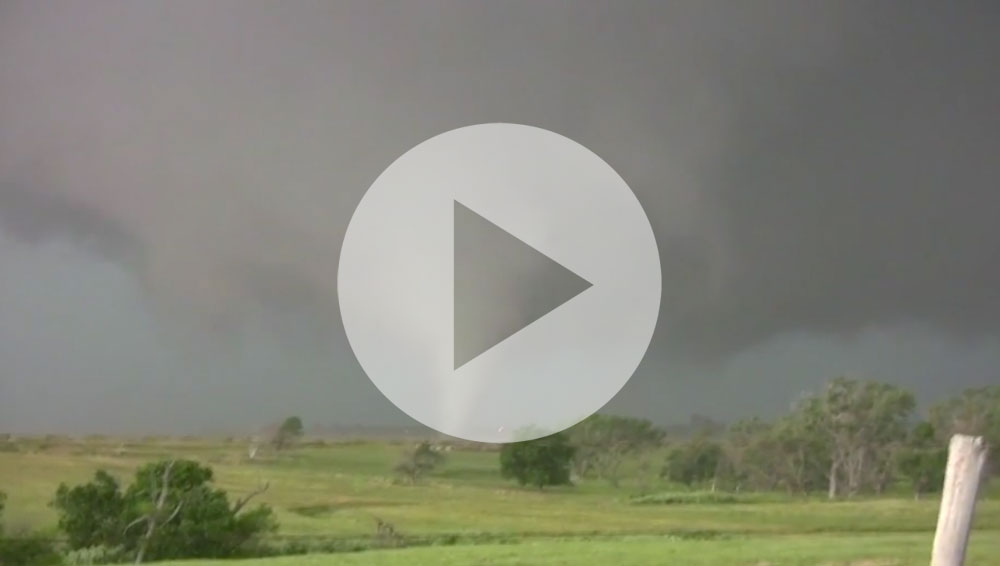
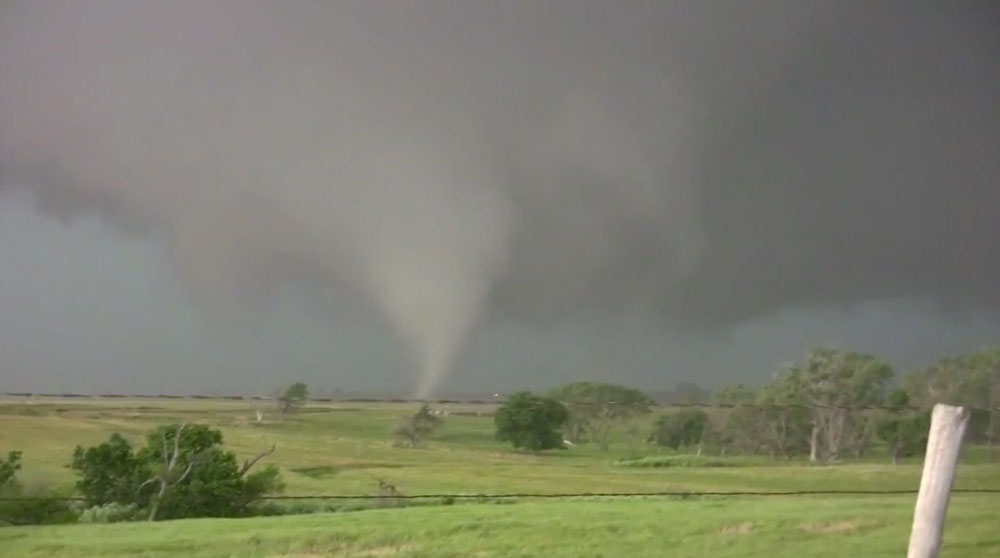
Map style refinements; video poster changes; menu tweaks.

Changed region(s): [[0.0, 0.2133, 1.0, 1.0]]

diff --git a/index.html b/index.html
@@ -177,6 +177,20 @@
 		<p>Moments later, caution kicked in. Samaras, who&rsquo;d spent decades stalking storms and anticipating their behavior, sensed trouble. Even as the Cobalt churned through the wind in an effort to outrun the storm so they could place the probes, Samaras reconsidered their speed and course, calculating whether it would be wise to hang back and let the tornado pass in front of them.</p>
 		<p>&ldquo;OK, we&rsquo;ve gotta be careful in case this thing wraps up,&rdquo; he said, fearing that the tornado could initiate a gradual left turn. &ldquo;I would slow up here, &rsquo;cause if this thing starts moving to the north, we&rsquo;re in trouble. Slow up. We&rsquo;re almost right alongside of it here. Slow up! Let the thing go off to the east a little bit, see if that thing transverses us.&rdquo;</p>
 		<p>They didn&rsquo;t appear to realize that they already had ventured into the transparent edge of the huge tornado&rsquo;s rotation. Sub-vortices ripped across fields to the south. In the moment, Young saw opportunity beckon.</p>
+	</div>
+</div>
+
+<div class="row">
+	<div class="large-8 push-2 columns">
+		<div id="map1" class="insetmapwrap">
+			<div class="insetmapheight"></div>
+			<iframe width="100%" height="100%" src="" frameborder="0" scrolling="no"></iframe>
+		</div>
+	</div>
+</div>
+
+<div class="row">
+	<div class="large-8 columns">
 		<p>&ldquo;We&rsquo;ve got debris in the air,&rdquo; said Samaras, and the loud thud of an object striking the car punctuated his words. &ldquo;That&rsquo;s the problem.&rdquo;</p>
 		<p>Just ahead, the north-south intersection of Reformatory Road offered an escape valve.</p>
 		<p>&ldquo;Very large hail,&rdquo; Samaras said. &ldquo;OK, we&rsquo;ve got, we&rsquo;ve got a turn to the north which is good. Got this inflow jet, so we&rsquo;re gonna follow it around to the north and get outta here. Now we go up north and then east.&rdquo;</p>
@@ -258,7 +272,7 @@
 <div id="fullMap" class="reveal-modal map-modal infobox">
 	<div class="mapwrap">
 		<div class="mapheight"></div>
-		<iframe width="100%" height="100%" src="./map/stormChaserMap2.html" frameborder="0"></iframe>
+		<iframe width="100%" height="100%" src="./map/stormChaserMap2.html" frameborder="0" scrolling="no"></iframe>
 	</div>
 	<a class="close-reveal-modal">&#215;</a>
 </div>

diff --git a/js/chaser.js b/js/chaser.js
@@ -5,7 +5,7 @@ function revealone() {
 	createSlidesOne();
 }
 
-var derp2 = function(){ $('div.opener').bind('inview', function(event, visible) {
+var derp1 = function(){ $('div.opener').bind('inview', function(event, visible) {
 	if (visible) {
 		$(this).stop().animate({ opacity: 1}, 1500);
 	}
@@ -17,7 +17,7 @@ var derp2 = function(){ $('div.opener').bind('inview', function(event, visible) 
 		$('#name2').stop().animate({opacity: 0}, 150);
 	}
 })};
-derp2();
+derp1();
 
 var derp2 = function(){ $('#footer-bar').bind('inview', function(event, visible) {
 	if (visible) {
@@ -25,3 +25,10 @@ var derp2 = function(){ $('#footer-bar').bind('inview', function(event, visible)
 	}
 })};
 derp2();
+
+var derp3 = function(){ $('#map1').one('inview', function(event, visible) {
+	if (visible) {
+		$(this).children('iframe').attr( "src", "./map/stormChaserMapPart1.html");
+	}
+})};
+derp3();

diff --git a/css/style.css b/css/style.css
@@ -312,6 +312,7 @@ div.small-6.sidemug img {
 div.mapwrap {
     position: relative;
     margin:0;
+    overflow:hidden;
 }
 div.mapwrap > .mapheight {
     width:100%;
@@ -322,20 +323,23 @@ div.mapwrap > iframe {
     position: absolute;
     top:0;
     left:0;
+    overflow:hidden;
 }
 .insetmapwrap {
     position: relative;
     margin:1em 0;
+    overflow:hidden;
 }
-.insetmapwrap > .vidheight {
+.insetmapwrap > .insetmapheight {
     width:100%;
     height:0;
-    padding-bottom:56.25%;
+    padding-bottom:49%;
 }
 .insetmapwrap > iframe {
     position: absolute;
     top:0;
     left:0;
+    overflow:hidden;
 }
 .vidwrap {
     position: relative;

diff --git a/chapter2.html b/chapter2.html
@@ -287,7 +287,7 @@
 <div id="fullMap" class="reveal-modal map-modal infobox">
 	<div class="mapwrap">
 		<div class="mapheight"></div>
-		<iframe width="100%" height="100%" src="./map/stormChaserMap2.html" frameborder="0"></iframe>
+		<iframe width="100%" height="100%" src="./map/stormChaserMap2.html" frameborder="0" scrolling="no"></iframe>
 	</div>
 	<a class="close-reveal-modal">&#215;</a>
 </div>

diff --git a/chapter3.html b/chapter3.html
@@ -249,7 +249,7 @@
 <div id="fullMap" class="reveal-modal map-modal infobox">
 	<div class="mapwrap">
 		<div class="mapheight"></div>
-		<iframe width="100%" height="100%" src="./map/stormChaserMap2.html" frameborder="0"></iframe>
+		<iframe width="100%" height="100%" src="./map/stormChaserMap2.html" frameborder="0" scrolling="no"></iframe>
 	</div>
 	<a class="close-reveal-modal">&#215;</a>
 </div>

diff --git a/chapter4.html b/chapter4.html
@@ -350,7 +350,7 @@
 <div id="fullMap" class="reveal-modal map-modal infobox">
 	<div class="mapwrap">
 		<div class="mapheight"></div>
-		<iframe width="100%" height="100%" src="./map/stormChaserMap2.html" frameborder="0"></iframe>
+		<iframe width="100%" height="100%" src="./map/stormChaserMap2.html" frameborder="0" scrolling="no"></iframe>
 	</div>
 	<a class="close-reveal-modal">&#215;</a>
 </div>

diff --git a/chapter5.html b/chapter5.html
@@ -277,7 +277,7 @@
 <div id="fullMap" class="reveal-modal map-modal infobox">
 	<div class="mapwrap">
 		<div class="mapheight"></div>
-		<iframe width="100%" height="100%" src="./map/stormChaserMap2.html" frameborder="0"></iframe>
+		<iframe width="100%" height="100%" src="./map/stormChaserMap2.html" frameborder="0" scrolling="no"></iframe>
 	</div>
 	<a class="close-reveal-modal">&#215;</a>
 </div>

diff --git a/chapter6.html b/chapter6.html
@@ -318,7 +318,7 @@
 <div id="fullMap" class="reveal-modal map-modal infobox">
 	<div class="mapwrap">
 		<div class="mapheight"></div>
-		<iframe width="100%" height="100%" src="./map/stormChaserMap2.html" frameborder="0"></iframe>
+		<iframe width="100%" height="100%" src="./map/stormChaserMap2.html" frameborder="0" scrolling="no"></iframe>
 	</div>
 	<a class="close-reveal-modal">&#215;</a>
 </div>

diff --git a/chapter7.html b/chapter7.html
@@ -284,7 +284,7 @@
 <div id="fullMap" class="reveal-modal map-modal infobox">
 	<div class="mapwrap">
 		<div class="mapheight"></div>
-		<iframe width="100%" height="100%" src="./map/stormChaserMap2.html" frameborder="0"></iframe>
+		<iframe width="100%" height="100%" src="./map/stormChaserMap2.html" frameborder="0" scrolling="no"></iframe>
 	</div>
 	<a class="close-reveal-modal">&#215;</a>
 </div>

diff --git a/credits.html b/credits.html
@@ -244,7 +244,7 @@
 <div id="fullMap" class="reveal-modal map-modal infobox">
 	<div class="mapwrap">
 		<div class="mapheight"></div>
-		<iframe width="100%" height="100%" src="./map/stormChaserMap2.html" frameborder="0"></iframe>
+		<iframe width="100%" height="100%" src="./map/stormChaserMap2.html" frameborder="0" scrolling="no"></iframe>
 	</div>
 	<a class="close-reveal-modal">&#215;</a>
 </div>

diff --git a/video.html b/video.html
@@ -300,7 +300,7 @@
 <div id="fullMap" class="reveal-modal map-modal infobox">
 	<div class="mapwrap">
 		<div class="mapheight"></div>
-		<iframe width="100%" height="100%" src="./map/stormChaserMap2.html" frameborder="0"></iframe>
+		<iframe width="100%" height="100%" src="./map/stormChaserMap2.html" frameborder="0" scrolling="no"></iframe>
 	</div>
 	<a class="close-reveal-modal">&#215;</a>
 </div>
